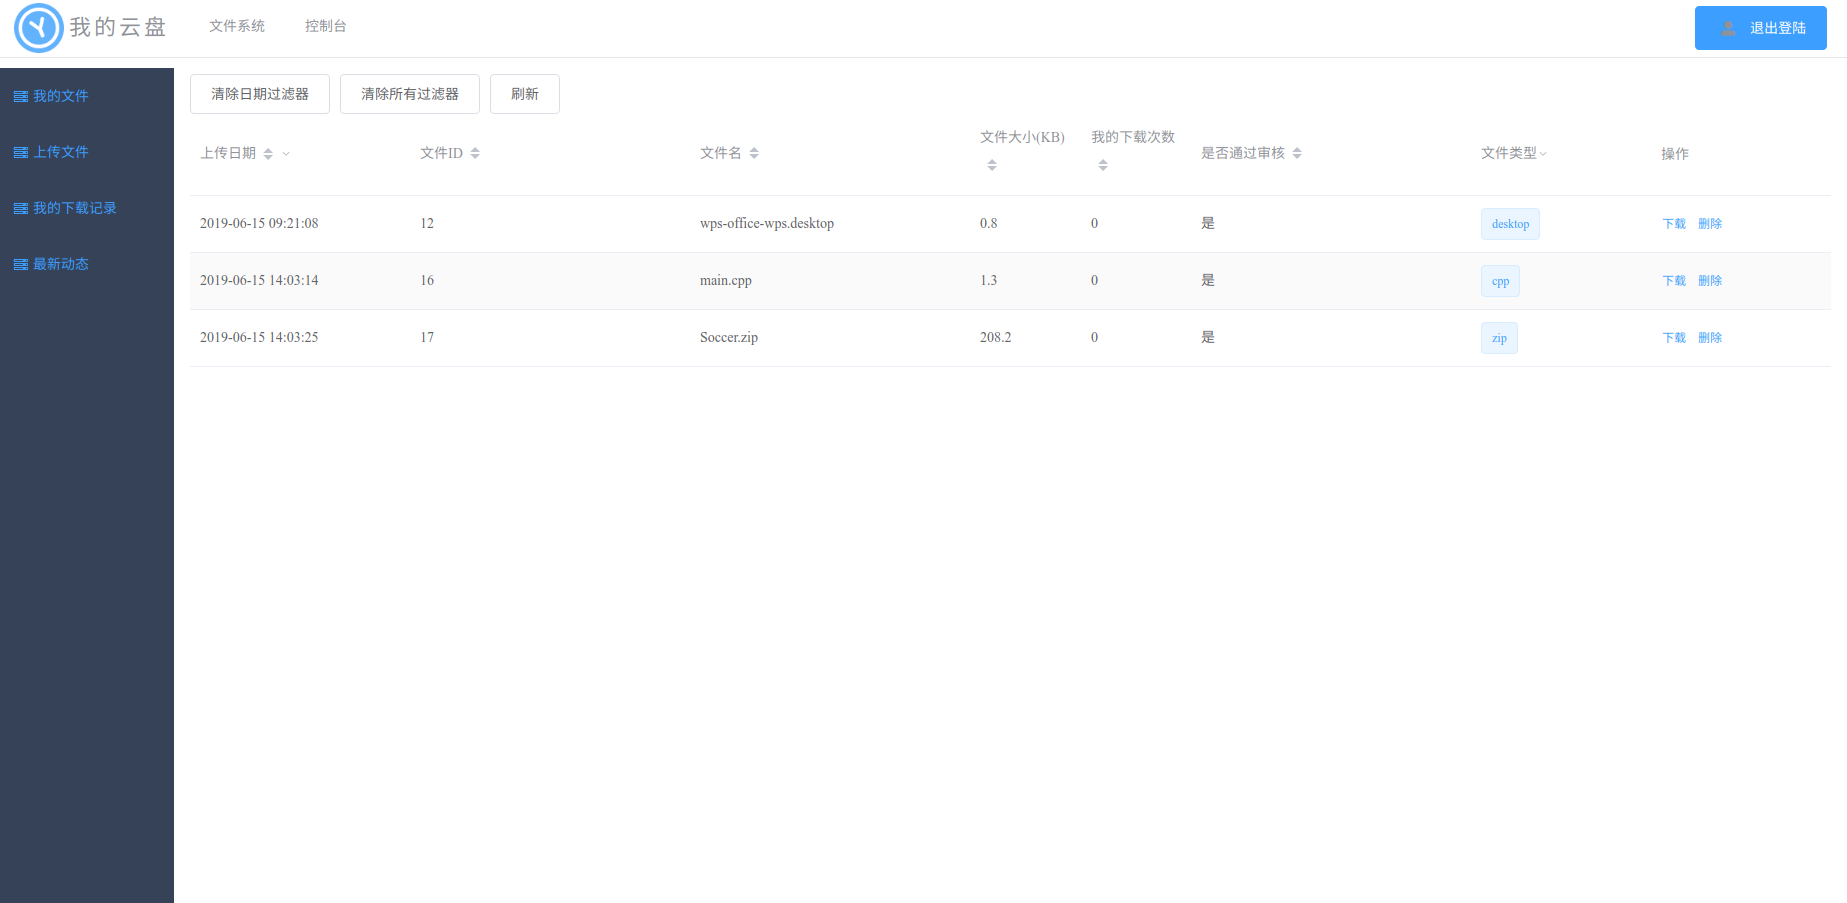
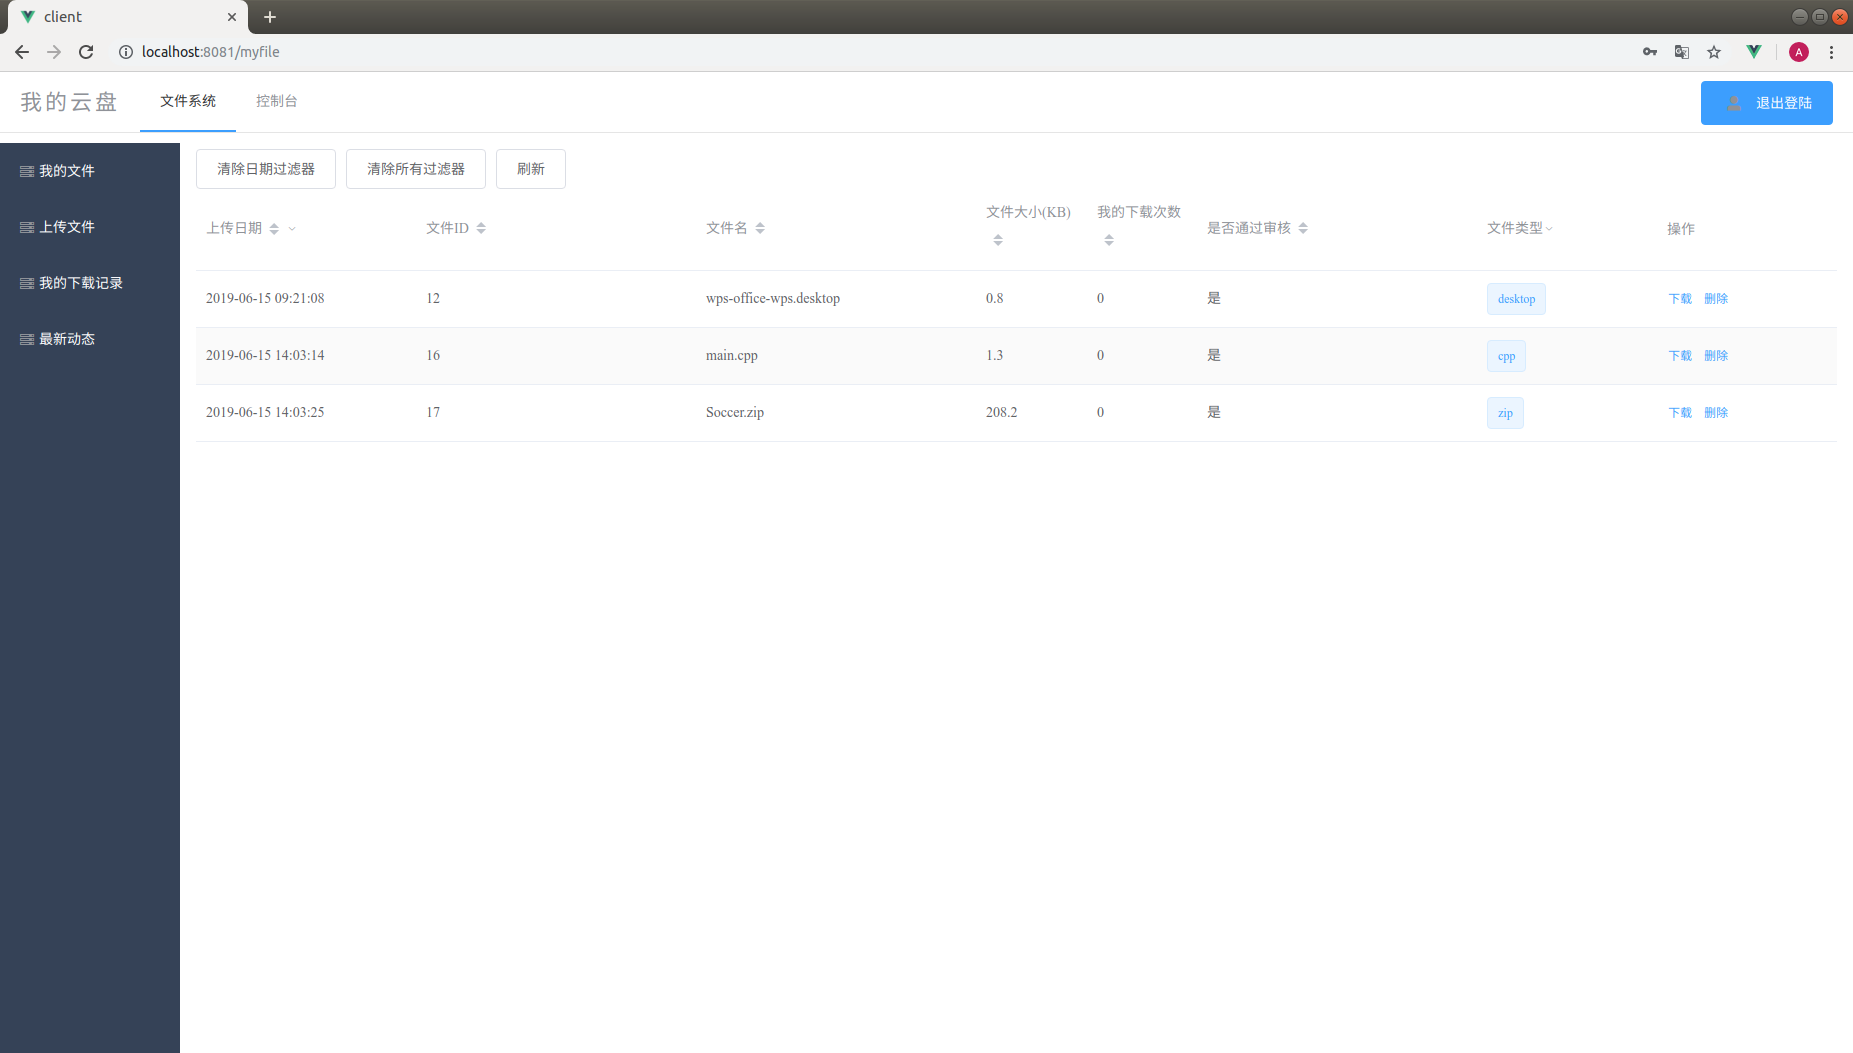
update

diff --git a/README.md b/README.md
@@ -85,5 +85,10 @@ npm run build
 
 ## 示例图片
 
-![1560610654814](/home/allen/.config/Typora/typora-user-images/1560610654814.png)
+![1560610654814](https://github.com/AllenOris/CloudDisk/blob/master/CloudDisk-Client/src/assets/1.png?raw=true)
 
+![1560610654814](https://github.com/AllenOris/CloudDisk/blob/master/CloudDisk-Client/src/assets/2.png?raw=true)
+
+![1560610654814](https://github.com/AllenOris/CloudDisk/blob/master/CloudDisk-Client/src/assets/3.png?raw=true)
+
+![1560610654814](https://github.com/AllenOris/CloudDisk/blob/master/CloudDisk-Client/src/assets/4.png?raw=true)
